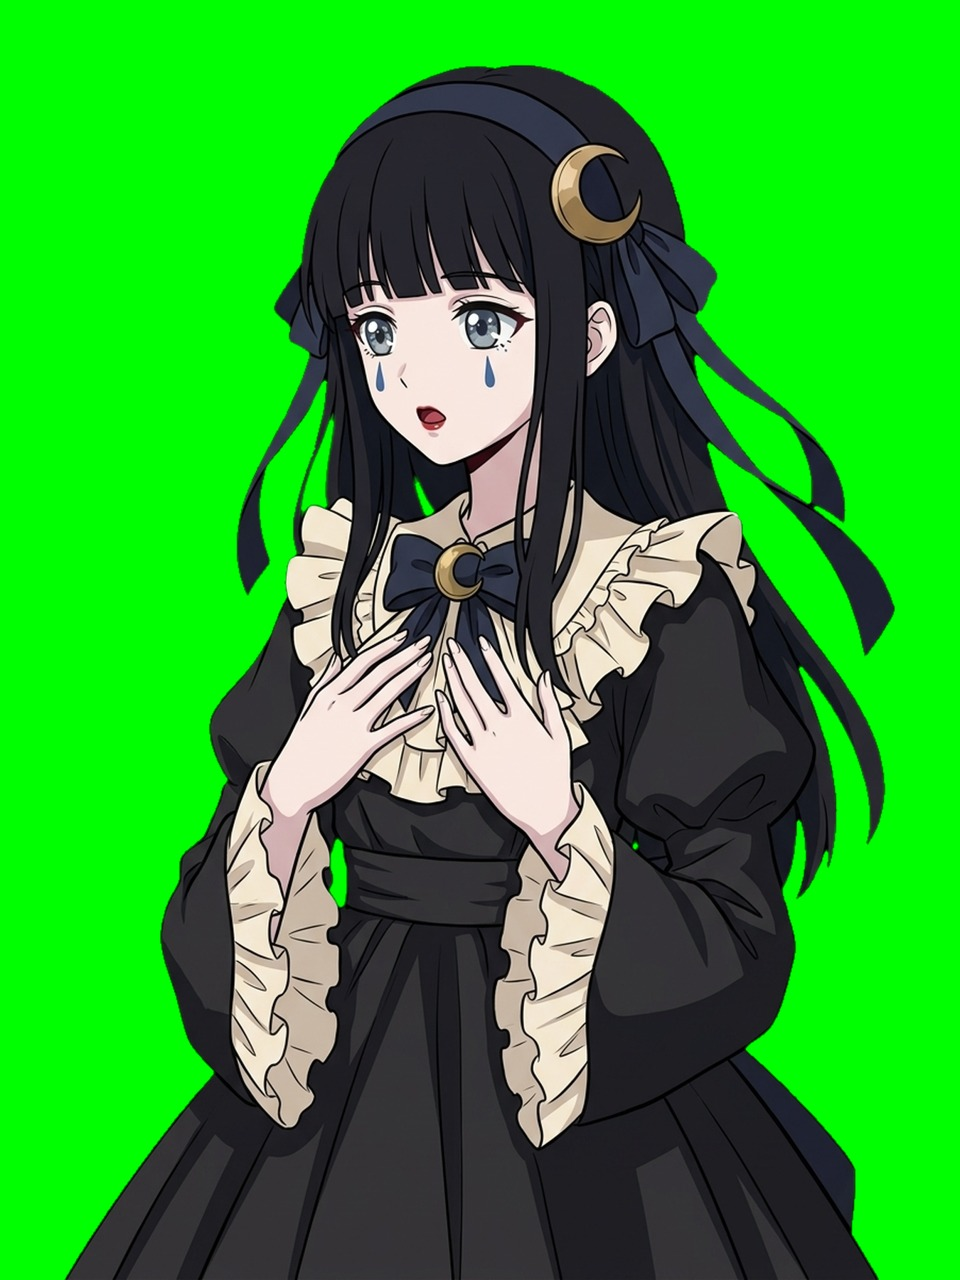
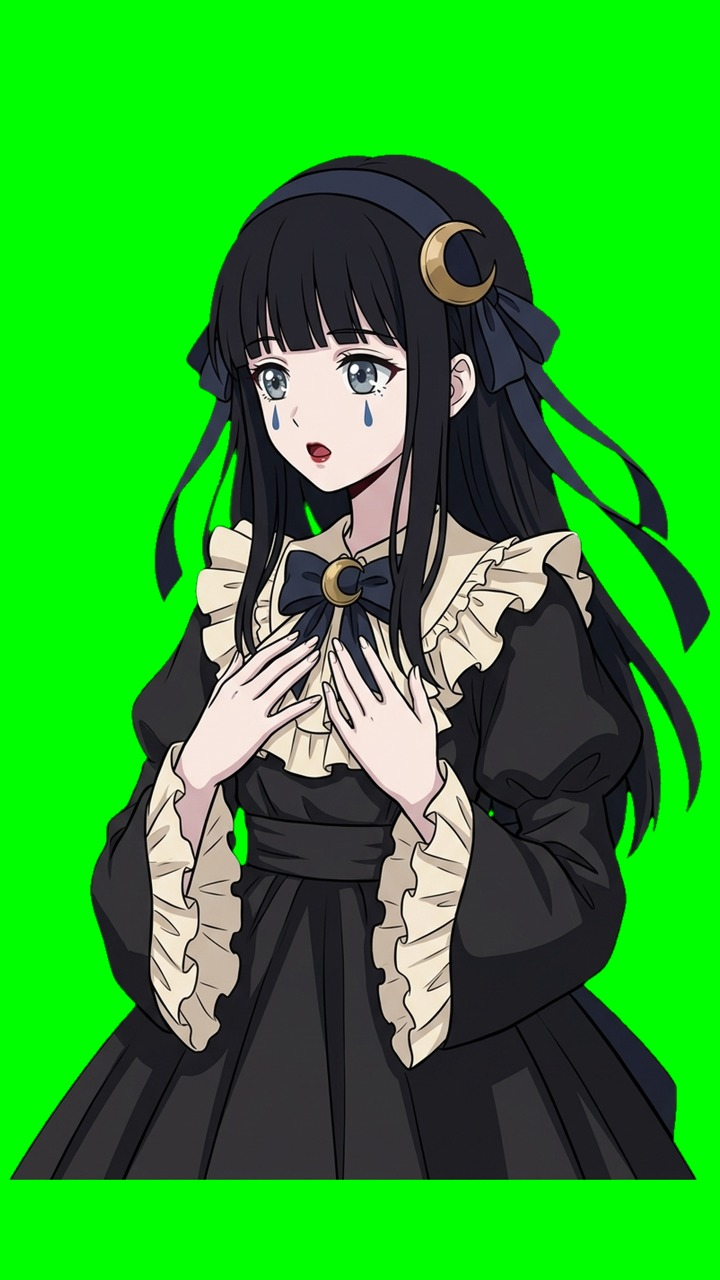
v84_205: animar personagem = Flow desenha um quadro intermediario (imagem) e o editor alterna com a pose em loop

diff --git a/templates/estudio.html b/templates/estudio.html
@@ -4288,7 +4288,7 @@ function peAnimLinha(a) {
     <select data-pe-anim="tipo" title="fala = a boca mexe · parada = respira/pisca">${['fala', 'parada'].map(t => `<option ${(a.anim_tipo || 'fala') === t ? 'selected' : ''}>${t}</option>`).join('')}</select>
     <select data-pe-campo="anim_modo" title="repetir = em loop a aparição toda · uma vez = mexe e para na pose">${[['repetir', 'repetir'], ['uma_vez', 'uma vez']].map(([v, t]) => `<option value="${v}" ${(a.anim_modo || 'repetir') === v ? 'selected' : ''}>${t}</option>`).join('')}</select>
     <input type="number" data-pe-anim="segundos" min="0" max="8" step="0.5" value="${a.anim_segundos || 0}" style="width:4.2em" title="só uns frames: usa os primeiros N segundos do clipe, ida e volta (0 = o clipe todo)">
-    ${a.anim_pronta ? `<label class="chk" title="usar o clipe animado"><input type="checkbox" data-pe-campo="anim_usar" ${a.anim_usando ? 'checked' : ''}>🎞</label>` : `<button class="mini" data-pe-animar ${espera ? 'disabled' : ''} title="manda esta pose pro Flow virar animação">🎞 Animar</button>`}
+    ${a.anim_pronta ? `<label class="chk" title="usar o clipe animado"><input type="checkbox" data-pe-campo="anim_usar" ${a.anim_usando ? 'checked' : ''}>🎞</label>` : `<button class="mini" data-pe-animar ${espera ? 'disabled' : ''} title="o Flow desenha um quadro intermediário desta pose (boca aberta / piscando) e o editor alterna os dois em loop">🎞 Animar</button>`}
   </div>`;
 }
 function peVigiarAnim() {

diff --git a/personagens_animar.py b/personagens_animar.py
@@ -5,8 +5,9 @@ personagens_animar.py — 🎞 personagem que se mexe (v84_193)
 A personagem por cima do vídeo não fica mais parada: cada POSE pode ganhar um clipe animado no Google Flow e o
 editor guarda o clipe pra REUSAR em qualquer vídeo.
 
-  • o pedido vai pro 🚀 Flow em massa como vídeo com frame de Início = a pose (sobre verde puro, 3:4); aqui o clipe
-    vai e volta (ida + volta) → começa e termina igual à imagem parada: entra e sai sem pulo e dá pra repetir em loop;
+  • v84_205: o Flow NÃO faz vídeo — faz UM quadro intermediário (foto com a pose de referência: a mesma pose um
+    instante depois, boca aberta / piscando); aqui ele é recortado igual às poses e ALTERNA com a pose em loop (com
+    uma fusão curta) → sensação de movimento, como desenho animado com poucos quadros, entra e sai sem pulo;
   • dois tipos: "fala" (ela fala, a boca mexe — no lugar do 👄 pisca-boca) e "parada" (respira, pisca, mexe pouco);
   • o verde sai aqui no PC (a mesma chave/limpeza das poses), quadro a quadro → WebM com transparência;
   • a biblioteca fica no projeto da personagem (personagens_pod/<id>/animacoes/): a mesma pose + tipo nunca vai pro
@@ -70,7 +71,7 @@ def chave(caminho_png: str, tipo: str) -> str:
     with open(caminho_png, "rb") as f:
         h = hashlib.sha1(f.read()).hexdigest()[:10]
     nome = re.sub(r"[^\w\-]", "_", os.path.splitext(os.path.basename(caminho_png))[0])[:60]
-    return f"{nome}__{tipo}__{h}"
+    return f"{nome}__{tipo}__{h}__q"  # __q = v84_205: quadro intermediário (imagem), não vídeo
 
 
 # ------------------------------------------------------------------ o pedido pro Flow
@@ -111,6 +112,42 @@ def _lote():
     return flow_lote.lote()
 
 
+def prompt_intermediario(nome: str, descricao: str, tipo: str, texto_fixo: Optional[Dict[str, Any]] = None,
+                         extra: str = "") -> str:
+    """🖼 v84_205: em vez de vídeo, UM quadro intermediário (a mesma pose um instante depois) — alternando com a pose
+    dá a sensação de movimento, como um desenho animado com poucos quadros."""
+    tf = texto_fixo or {}
+    acao = ("mid-word while talking: the mouth clearly OPEN, eyebrows slightly raised, the head tilted a few degrees and "
+            "the raised hand moved a little, as the next drawing of a talking animation" if tipo == "fala" else
+            "a moment later in a gentle idle motion: eyes half closed in a blink, the head tilted a few degrees, the "
+            "shoulders slightly raised by a breath and the hand moved a little")
+    partes = [str(tf.get("trava") or ""), str(tf.get("estilo") or ""),
+              f"IN-BETWEEN ANIMATION FRAME of {nome}" + (f" ({descricao})" if descricao else "") + ": the reference "
+              f"image is frame 1; draw frame 2 of the same shot — {acao}. Everything else IDENTICAL to the reference: same "
+              "character, same outfit, same pose and body position, same size, same framing and same place in the image, "
+              "same line art and colors. Only that small change. Plain flat solid chroma-key green background (#00FF00), "
+              "no text, no extra objects.",
+              str(tf.get("regras") or "")]
+    if extra:
+        partes.append(" ".join(str(extra).split())[:300])
+    return " ".join(x.strip() for x in partes if x and x.strip())[:3900]
+
+
+def frame_verde_34(png: str, destino: str) -> str:
+    """A pose sobre verde puro em 3:4 (o formato das fotos do Flow; as poses também nascem assim)."""
+    from PIL import Image
+    im = Image.open(png).convert("RGBA")
+    w, h = im.size
+    W = max(w, int(round(h * 3 / 4)))
+    fundo = Image.new("RGBA", (W, h), (0, 255, 0, 255))
+    fundo.alpha_composite(im, ((W - w) // 2, 0))
+    rgb = fundo.convert("RGB")
+    if rgb.height > 1280:
+        rgb = rgb.resize((int(rgb.width * 1280 / rgb.height), 1280))
+    rgb.save(destino, quality=92)
+    return destino
+
+
 def pedir(base: str, pid: str, pose: Dict[str, Any], tipo: str = "fala", nome: str = "", fala: str = "",
           extra: str = "", refazer: bool = False) -> Dict[str, Any]:
     """Põe a animação desta pose na fila do Flow (se ainda não existe/está vindo). → o item da biblioteca."""
@@ -124,12 +161,18 @@ def pedir(base: str, pid: str, pose: Dict[str, Any], tipo: str = "fala", nome: s
         if it and not refazer and (it.get("estado") in ESPERA or (it.get("estado") == "pronto" and os.path.isfile(str(it.get("webm"))))):
             return dict(it, chave=k)
         os.makedirs(pasta(pid, base), exist_ok=True)
-        fr = frame_verde(pose["caminho"], os.path.join(pasta(pid, base), f"{k}_frame.jpg"))
-        p = prompt_animacao(nome or "the character", pose.get("descricao") or "", tipo, fala, extra)
-        j = _lote().adicionar([{"prompt": p, "tipo": "video", "inicio_arquivo": fr, "origem": "personagem"}],
-                              proporcao="9:16")[0]
+        fr = frame_verde_34(pose["caminho"], os.path.join(pasta(pid, base), f"{k}_ref.jpg"))
+        try:
+            import personagens_pod as pp
+            tf = (pp.carregar(pid, base).get("dados") or {}).get("texto_fixo") or {}
+        except Exception:  # noqa: BLE001
+            tf = {}
+        p = prompt_intermediario(nome or "the character", pose.get("descricao") or "", tipo, tf, extra)
+        j = _lote().adicionar([{"prompt": p, "tipo": "imagem", "referencia_arquivo": fr, "origem": "personagem"}],
+                              proporcao="3:4")[0]
         it = {"estado": "fila", "flow_job": j["id"], "prompt": p, "pose": pose.get("arquivo") or os.path.basename(pose["caminho"]),
-              "tipo": tipo, "frame": fr, "criado": time.time(), "erro": None, "msg": "na fila do Flow"}
+              "tipo": tipo, "frame": fr, "pose_png": pose["caminho"], "criado": time.time(), "erro": None,
+              "msg": "na fila do Flow (quadro intermediário)"}
         d[k] = it
         _salvar(pid, base, d)
     try:
@@ -179,6 +222,42 @@ def processar(video: str, destino: str, opcoes: Optional[Dict[str, Any]] = None,
         shutil.rmtree(tmp, ignore_errors=True)
 
 
+def montar_loop(pose_png: str, quadro2: str, destino: str, tipo: str = "fala", fps: int = 24) -> Dict[str, Any]:
+    """Pose ↔ quadro intermediário em loop (com uma fusão curta entre eles) → WebM transparente. "fala" alterna rápido
+    (a boca abre e fecha); "parada" fica mais tempo na pose (respira/pisca de vez em quando)."""
+    from PIL import Image
+    a = Image.open(pose_png).convert("RGBA")
+    b = Image.open(quadro2).convert("RGBA")
+    if b.size != a.size:
+        b = b.resize(a.size)
+    if a.width > 720:  # menor: o overlay nunca passa de ~1/3 da tela
+        a = a.resize((720, int(a.height * 720 / a.width)))
+        b = b.resize(a.size)
+    seg = [(a, 5), ("ab", 2), (b, 5), ("ba", 2)] if tipo == "fala" else [(a, 30), ("ab", 4), (b, 12), ("ba", 4)]
+    tmp = tempfile.mkdtemp(prefix="pers_loop_")
+    try:
+        n = 0
+        for item, qtd in seg:
+            for i in range(qtd):
+                if item == "ab":
+                    q = Image.blend(a, b, (i + 1) / (qtd + 1))
+                elif item == "ba":
+                    q = Image.blend(b, a, (i + 1) / (qtd + 1))
+                else:
+                    q = item
+                n += 1
+                q.save(os.path.join(tmp, f"a_{n:05d}.png"))
+        os.makedirs(os.path.dirname(destino), exist_ok=True)
+        r = subprocess.run(["ffmpeg", "-y", "-loglevel", "error", "-framerate", str(fps), "-i", os.path.join(tmp, "a_%05d.png"),
+                            "-c:v", "libvpx-vp9", "-pix_fmt", "yuva420p", "-b:v", "0", "-crf", "30", "-auto-alt-ref", "0",
+                            "-row-mt", "1", destino], capture_output=True, text=True, timeout=600)
+        if r.returncode != 0 or not os.path.isfile(destino):
+            raise AnimErro(f"não consegui gravar o WebM transparente: {(r.stderr or '')[-200:]}")
+        return {"webm": destino, "duracao": round(n / fps, 3), "quadros": n}
+    finally:
+        shutil.rmtree(tmp, ignore_errors=True)
+
+
 def sincronizar(pid: str, base: str) -> Dict[str, Any]:
     """Olha a fila do Flow: clipe pronto → baixa, tira o verde, guarda. → o índice atualizado."""
     with _TRAVA:
@@ -195,11 +274,12 @@ def sincronizar(pid: str, base: str) -> Dict[str, Any]:
             if j is None:
                 it.update(estado="erro", erro="o pedido sumiu da fila do 🚀 Flow em massa — anime de novo")
             elif j["estado"] == "ok":
-                vid = next((r for r in j.get("resultados") or [] if r.get("tipo") == "video"), None)
-                if not vid:
-                    it.update(estado="erro", erro="o Flow terminou mas não veio vídeo")
+                res = next((r for r in j.get("resultados") or [] if r.get("tipo") in ("imagem", "video")), None)
+                if not res:
+                    it.update(estado="erro", erro="o Flow terminou mas não veio a imagem")
                 else:
-                    it.update(estado="processando", msg="🧹 tirando o verde…", arquivo_flow=vid["arquivo"])
+                    it.update(estado="processando", msg="🧹 tirando o verde…", arquivo_flow=res["arquivo"],
+                              tipo_flow=res.get("tipo"))
                     prontos.append(k)
             elif j["estado"] == "erro":
                 it.update(estado="erro", erro=str(j.get("erro") or "o Flow falhou")[:300])
@@ -218,14 +298,30 @@ def _finalizar(pid: str, base: str, k: str) -> None:
     it = d.get(k) or {}
     try:
         origem = os.path.join(FE.pasta_galeria(), it["arquivo_flow"])
-        verde = os.path.join(pasta(pid, base), f"{k}_verde.mp4")
+        verde = os.path.join(pasta(pid, base), f"{k}_verde" + os.path.splitext(it["arquivo_flow"])[1])
         shutil.copyfile(origem, verde)
         try:
             p = pp.carregar(pid, base)
             opl = p["dados"]["limpeza"] if isinstance(p["dados"].get("limpeza"), dict) else {}
         except Exception:  # noqa: BLE001
             opl = {}
-        r = processar(verde, os.path.join(pasta(pid, base), f"{k}.webm"), opl)
+        if it.get("tipo_flow") == "imagem":  # 🖼 v84_205: o quadro intermediário → recorta igual às poses e alterna
+            from PIL import Image
+            import personagens_limpeza as L
+            try:
+                p_ = pp.carregar(pid, base)
+                canvas = tuple(p_["dados"].get("canvas") or (1200, 1800))
+                alt = float(p_["dados"].get("altura_personagem") or 0.95)
+                corpo = bool(p_["dados"].get("corpo_inteiro"))
+            except Exception:  # noqa: BLE001
+                canvas, alt, corpo = (1200, 1800), 0.95, False
+            final, _info = L.recortar(Image.open(verde).convert("RGB"), canvas, alt, opl, corpo_inteiro=corpo)
+            quadro = os.path.join(pasta(pid, base), f"{k}_quadro2.png")
+            final.save(quadro)
+            it["quadro2"] = quadro
+            r = montar_loop(it.get("pose_png") or "", quadro, os.path.join(pasta(pid, base), f"{k}.webm"), it.get("tipo") or "fala")
+        else:
+            r = processar(verde, os.path.join(pasta(pid, base), f"{k}.webm"), opl)
         it.update(estado="pronto", webm=r["webm"], verde=verde, duracao=r["duracao"], msg="✅ pronta", erro=None,
                   pronto_em=time.time())
     except Exception as exc:  # noqa: BLE001

diff --git a/test_v84_193_personagens_animar.py b/test_v84_193_personagens_animar.py
@@ -73,6 +73,8 @@ def test_processar_tira_o_verde(tmp_path):
 
 
 def test_pedir_reusa_e_aplica(tmp_path, monkeypatch):
+    """v84_205: o Flow faz UM quadro intermediário (foto com a pose de referência); aqui ele é recortado igual às poses
+    e alterna com a pose num WebM em loop."""
     import personagens_pod as pp
     import flow_estudio as FE
     monkeypatch.setattr(pp, "pasta_raiz", lambda base=None: str(tmp_path / "pp"))
@@ -83,16 +85,19 @@ def test_pedir_reusa_e_aplica(tmp_path, monkeypatch):
     monkeypatch.setattr(FE, "pasta_galeria", lambda: str(gal))
     pose = _pose(tmp_path / "mira_curiosa_dir.png")
     it = PA.pedir("b", "abc123", {"caminho": pose, "arquivo": "mira_curiosa_dir.png"}, "fala", "Mira", "Was?")
-    assert it["estado"] == "fila" and lote.pedidos[0]["inicio_arquivo"].endswith("_frame.jpg") and "fim_arquivo" not in lote.pedidos[0]
-    assert lote.fila[0]["proporcao"] == "9:16"
+    ped = lote.pedidos[0]
+    assert it["estado"] == "fila" and ped["tipo"] == "imagem" and ped["referencia_arquivo"].endswith("_ref.jpg")
+    assert lote.fila[0]["proporcao"] == "3:4" and "IN-BETWEEN" in ped["prompt"] and "mouth clearly OPEN" in ped["prompt"]
     PA.pedir("b", "abc123", {"caminho": pose}, "fala")
     assert len(lote.fila) == 1  # a mesma pose + tipo não vai duas vezes
-    _video_verde(str(gal / "clipe.mp4"))
-    lote.fila[0].update(estado="ok", resultados=[{"tipo": "video", "arquivo": "clipe.mp4"}])
+    q = Image.new("RGB", (300, 400), (0, 255, 0))  # o "quadro 2" do Flow: o boneco um pouco mexido, fundo verde
+    ImageDraw.Draw(q).rectangle([100, 60, 190, 400], fill=(200, 30, 40))
+    q.save(gal / "q2.png")
+    lote.fila[0].update(estado="ok", resultados=[{"tipo": "imagem", "arquivo": "q2.png"}])
     d = PA.sincronizar("abc123", "b")
     k = PA.chave(pose, "fala")
-    assert d[k]["estado"] == "pronto" and os.path.isfile(d[k]["webm"])
-    # numa aparição (cópia da pose no projeto do vídeo): o clipe entra
+    assert d[k]["estado"] == "pronto" and os.path.isfile(d[k]["webm"]) and os.path.isfile(d[k]["quadro2"]), d[k]
+    assert d[k]["duracao"] < 1.0  # fala: alterna rápido
     jd = tmp_path / "job"
     (jd / "personagens").mkdir(parents=True)
     copia = jd / "personagens" / "mira_curiosa_dir.png"
@@ -101,10 +106,6 @@ def test_pedir_reusa_e_aplica(tmp_path, monkeypatch):
           "boca_janelas": [[1, 2]], "anim_pedida": True}
     job = {"overlays": [ov]}
     assert PA.aplicar_prontas(job, "b", str(jd)) >= 1 and os.path.isfile(ov["anim_video"])
-    ov["anim_segundos"] = 0.5
-    ov.pop("anim_video")
-    PA.aplicar_prontas(job, "b", str(jd))
-    assert "_ida_volta_500" in ov["anim_video"]
     import personagens_editor as pe
     r = pe.para_render(ov)
     assert r["anim_video"] == ov["anim_video"] and r["boca_path"] is None
